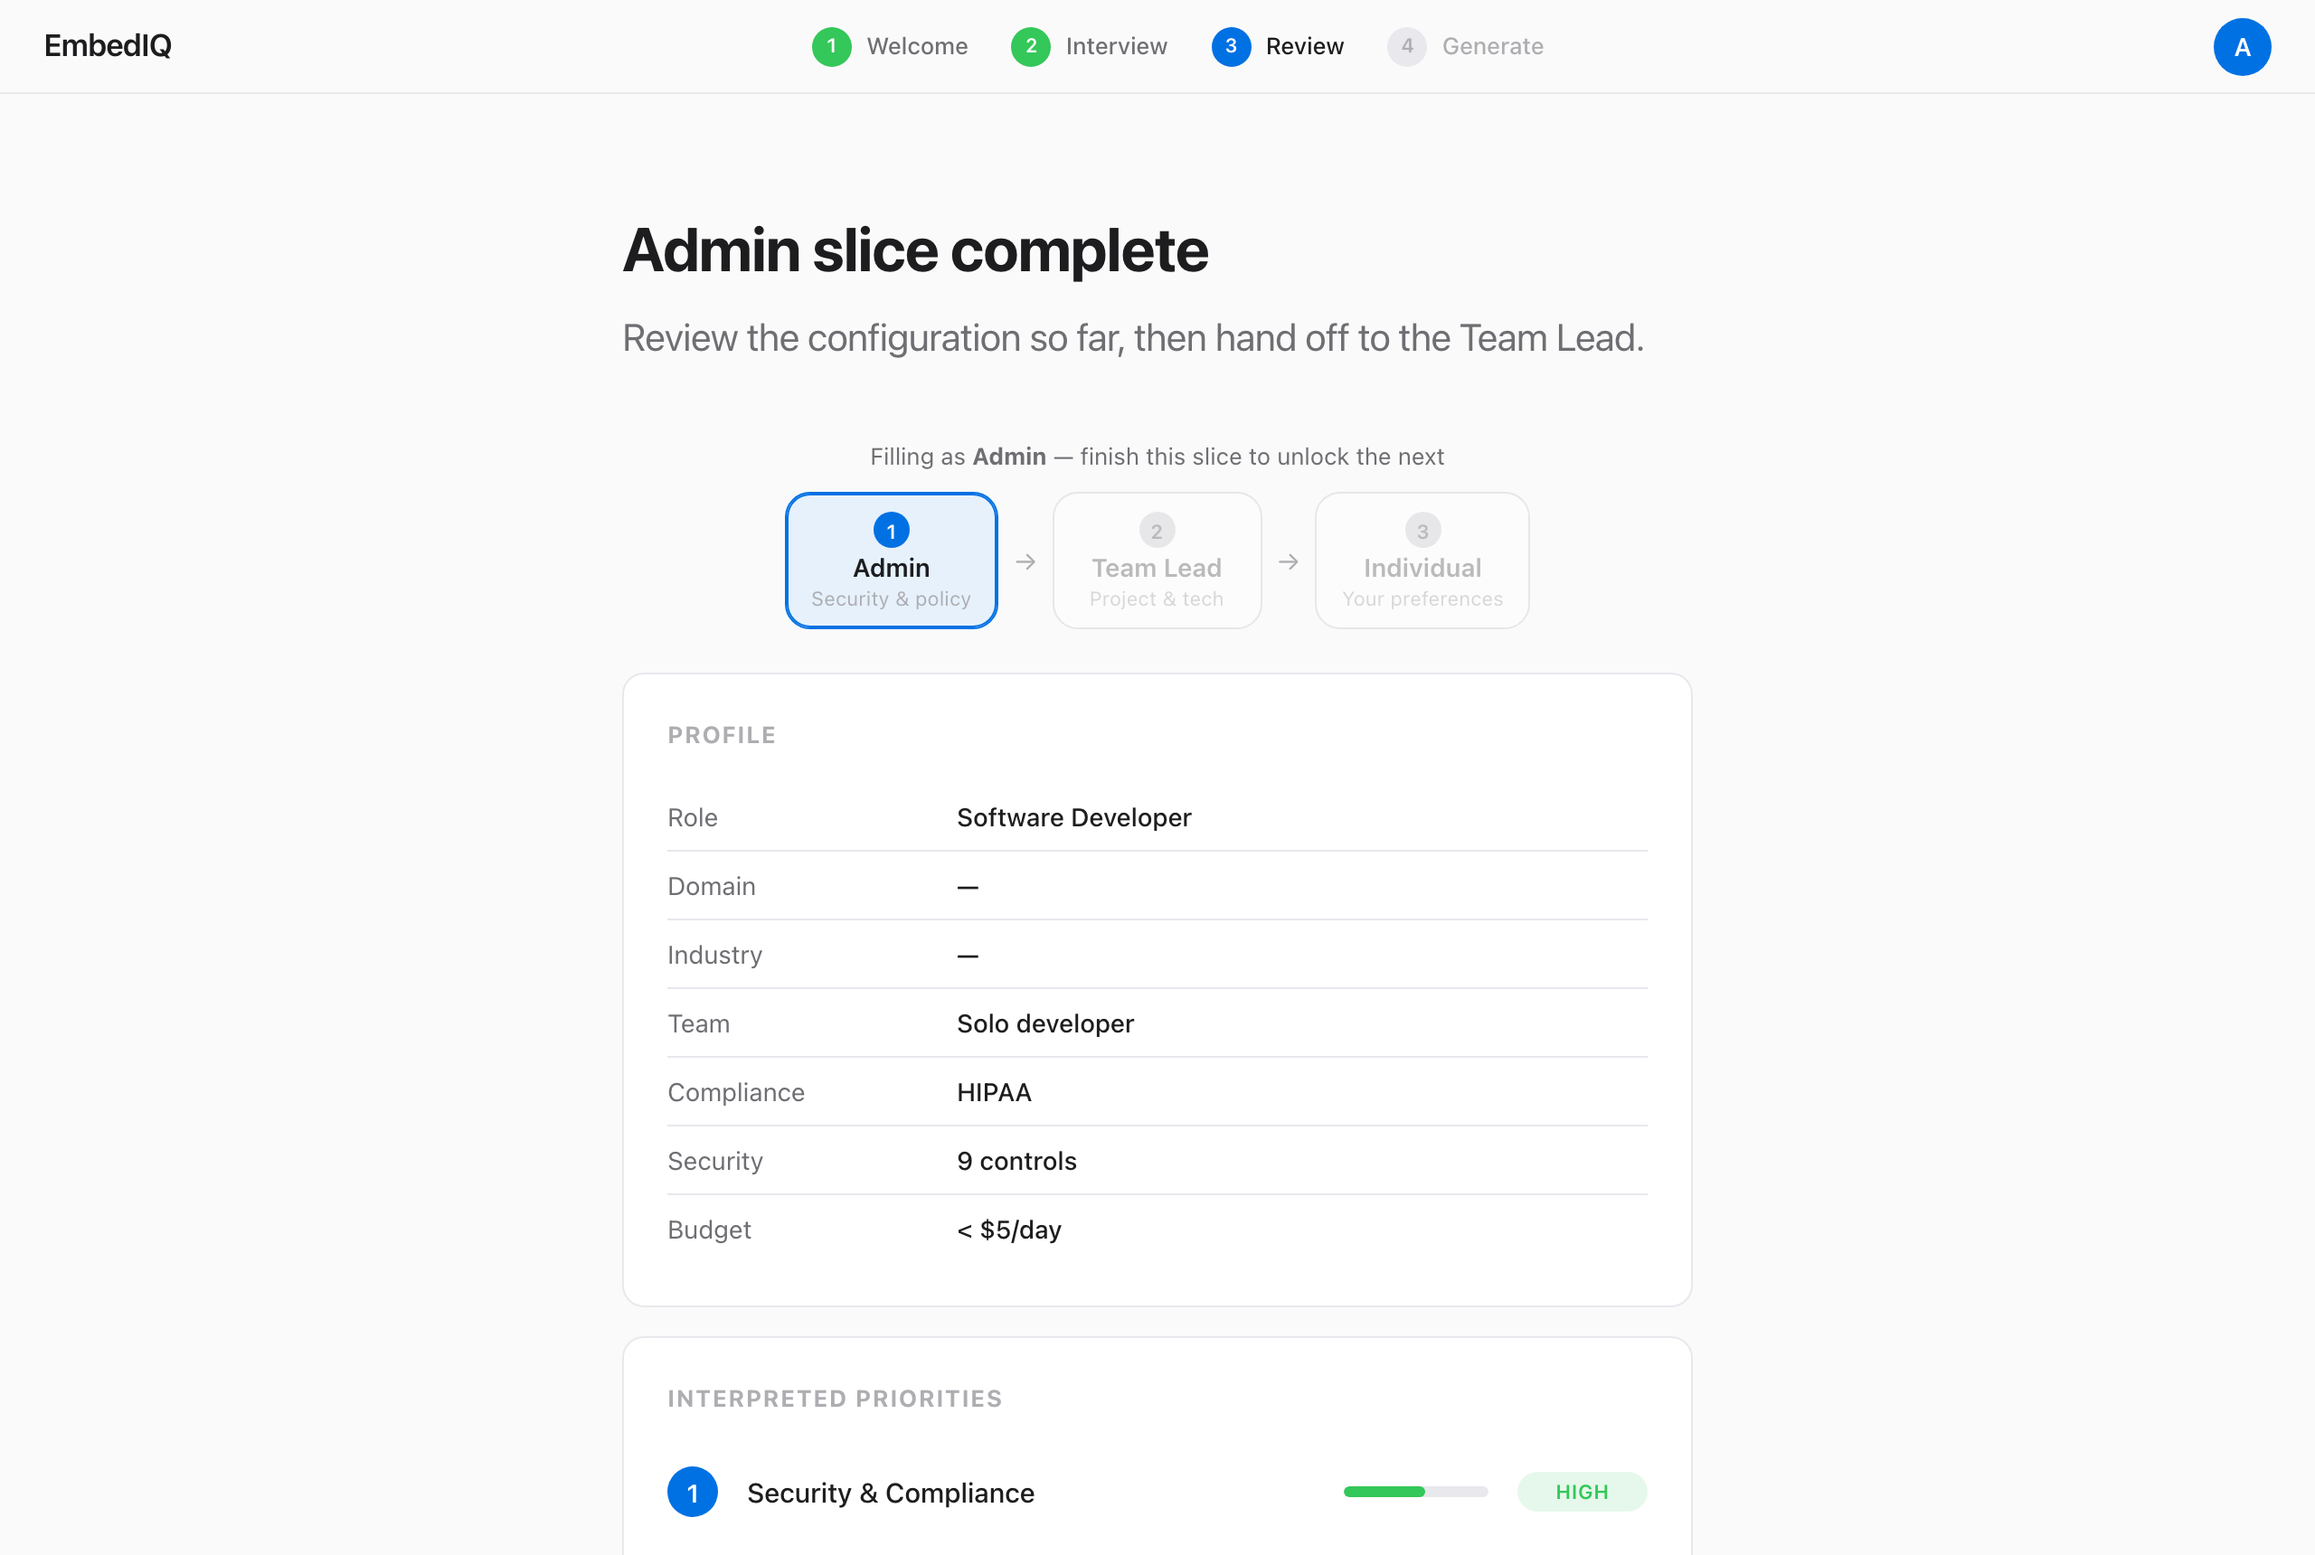
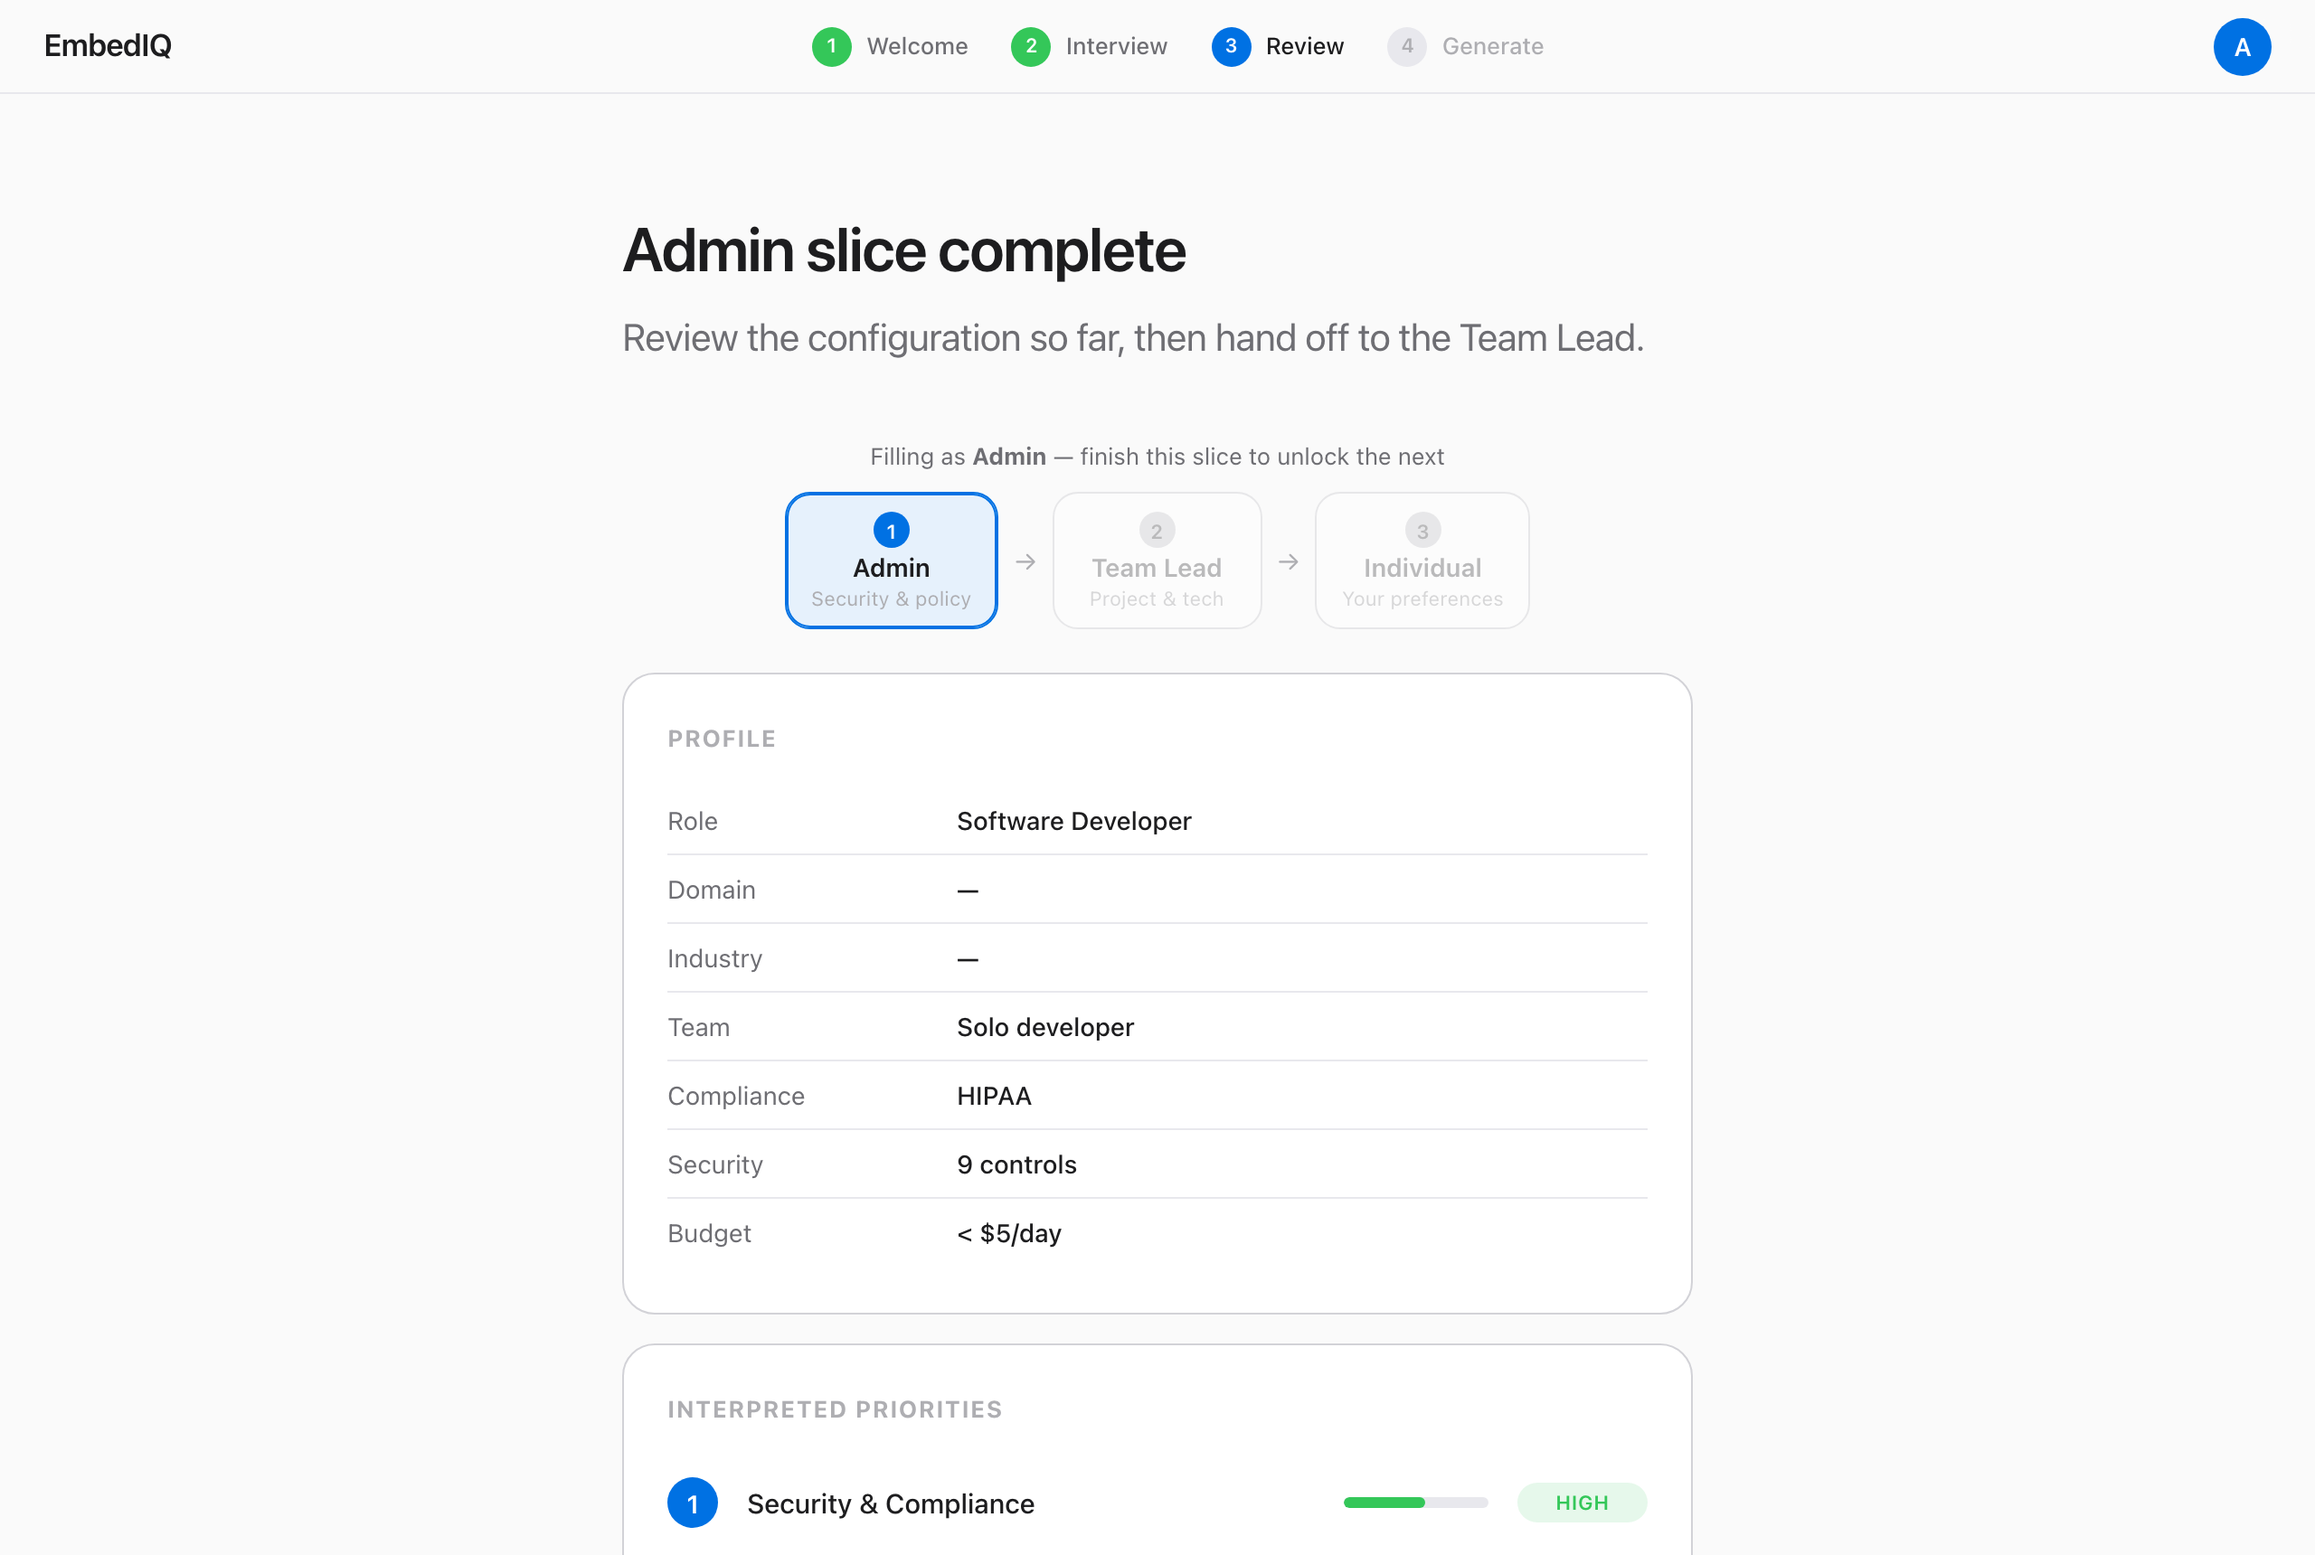
Wizard screens matched to the redesigned landing

diff --git a/src/web/public/style.css b/src/web/public/style.css
@@ -1957,3 +1957,71 @@ body {
   color: white;
   box-shadow: 0 1px 2px rgba(0, 0, 0, 0.1);
 }
+
+/* ═══════════════════════════════════════════════════════════════
+   Wizard screens — matched to the landing's Apple-style system
+   (accent over indigo, softer radii, lighter heading weights, the
+   same accent tints + subtle lift the landing cards use)
+   ═══════════════════════════════════════════════════════════════ */
+
+/* Role scope banner — the accent, not indigo; softer radius */
+.scope-banner {
+  background: color-mix(in srgb, var(--accent) 9%, var(--surface));
+  border: 1px solid color-mix(in srgb, var(--accent) 30%, var(--border));
+  border-radius: 14px;
+  padding: 13px 16px;
+}
+
+/* "Why we ask" — a soft rounded accent panel like the landing's tinted blocks */
+.purpose-text {
+  background: color-mix(in srgb, var(--accent) 8%, var(--surface));
+  border: 1px solid color-mix(in srgb, var(--accent) 22%, var(--border));
+  border-radius: 14px;
+  padding: 12px 16px;
+}
+
+/* Headings — match the landing scale: 600 weight, tighter tracking */
+.question-card h2 { font-weight: 600; letter-spacing: -0.025em; }
+.dim-review-header h2 { font-weight: 600; letter-spacing: -0.025em; }
+.playback-container h1,
+.generate-container h1 {
+  font-size: clamp(28px, 3vw, 34px);
+  font-weight: 600;
+  letter-spacing: -0.025em;
+}
+
+/* Text inputs — softer radius + the landing's focus ring */
+.text-input,
+.input-row input { border-radius: 12px; }
+.text-input:focus,
+.input-row input:focus {
+  border-color: var(--accent);
+  box-shadow: 0 0 0 3px color-mix(in srgb, var(--accent) 14%, transparent);
+}
+
+/* Choice cards — landing radius, accent tints, subtle lift */
+.choice-item { border-radius: 14px; border-color: var(--border); }
+.choice-item:hover {
+  border-color: color-mix(in srgb, var(--accent) 45%, var(--border));
+  background: color-mix(in srgb, var(--accent) 5%, var(--surface));
+  transform: translateY(-1px);
+}
+.choice-item.selected {
+  border-color: var(--accent);
+  background: color-mix(in srgb, var(--accent) 9%, var(--surface));
+  box-shadow: 0 0 0 1px var(--accent) inset;
+}
+.scale-item { border-radius: 13px; }
+
+/* Cards — the landing's larger, softer radius */
+.profile-card { border-radius: 18px; border-color: var(--border); padding: 26px 24px; }
+.file-preview { border-radius: 16px; border-color: var(--border); }
+.file-item { border-radius: 12px; border-color: var(--border); }
+.file-item:hover {
+  border-color: color-mix(in srgb, var(--accent) 45%, var(--border));
+  background: color-mix(in srgb, var(--accent) 5%, var(--surface));
+}
+
+/* Sidebar — refined dimension list */
+.dimension-sidebar { border-right: 1px solid var(--border); }
+.dim-item { border-radius: 10px; }
